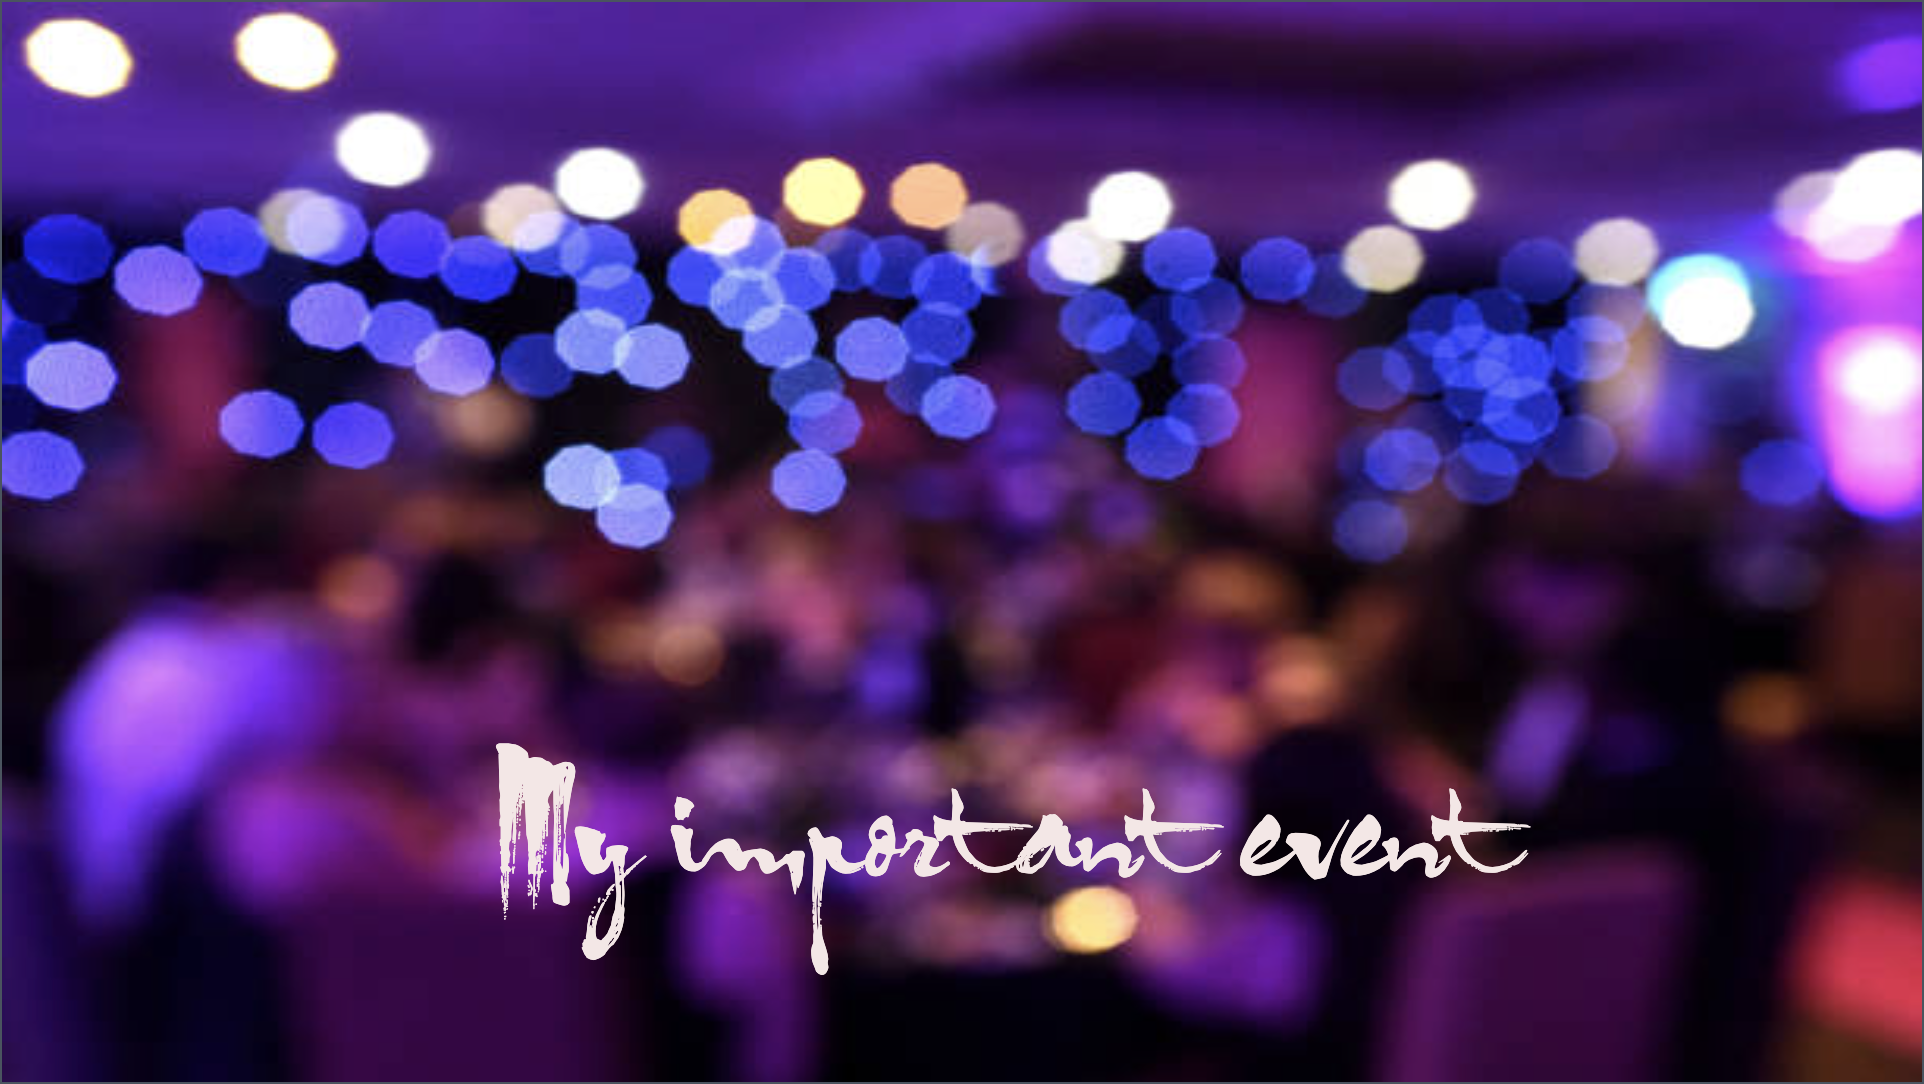
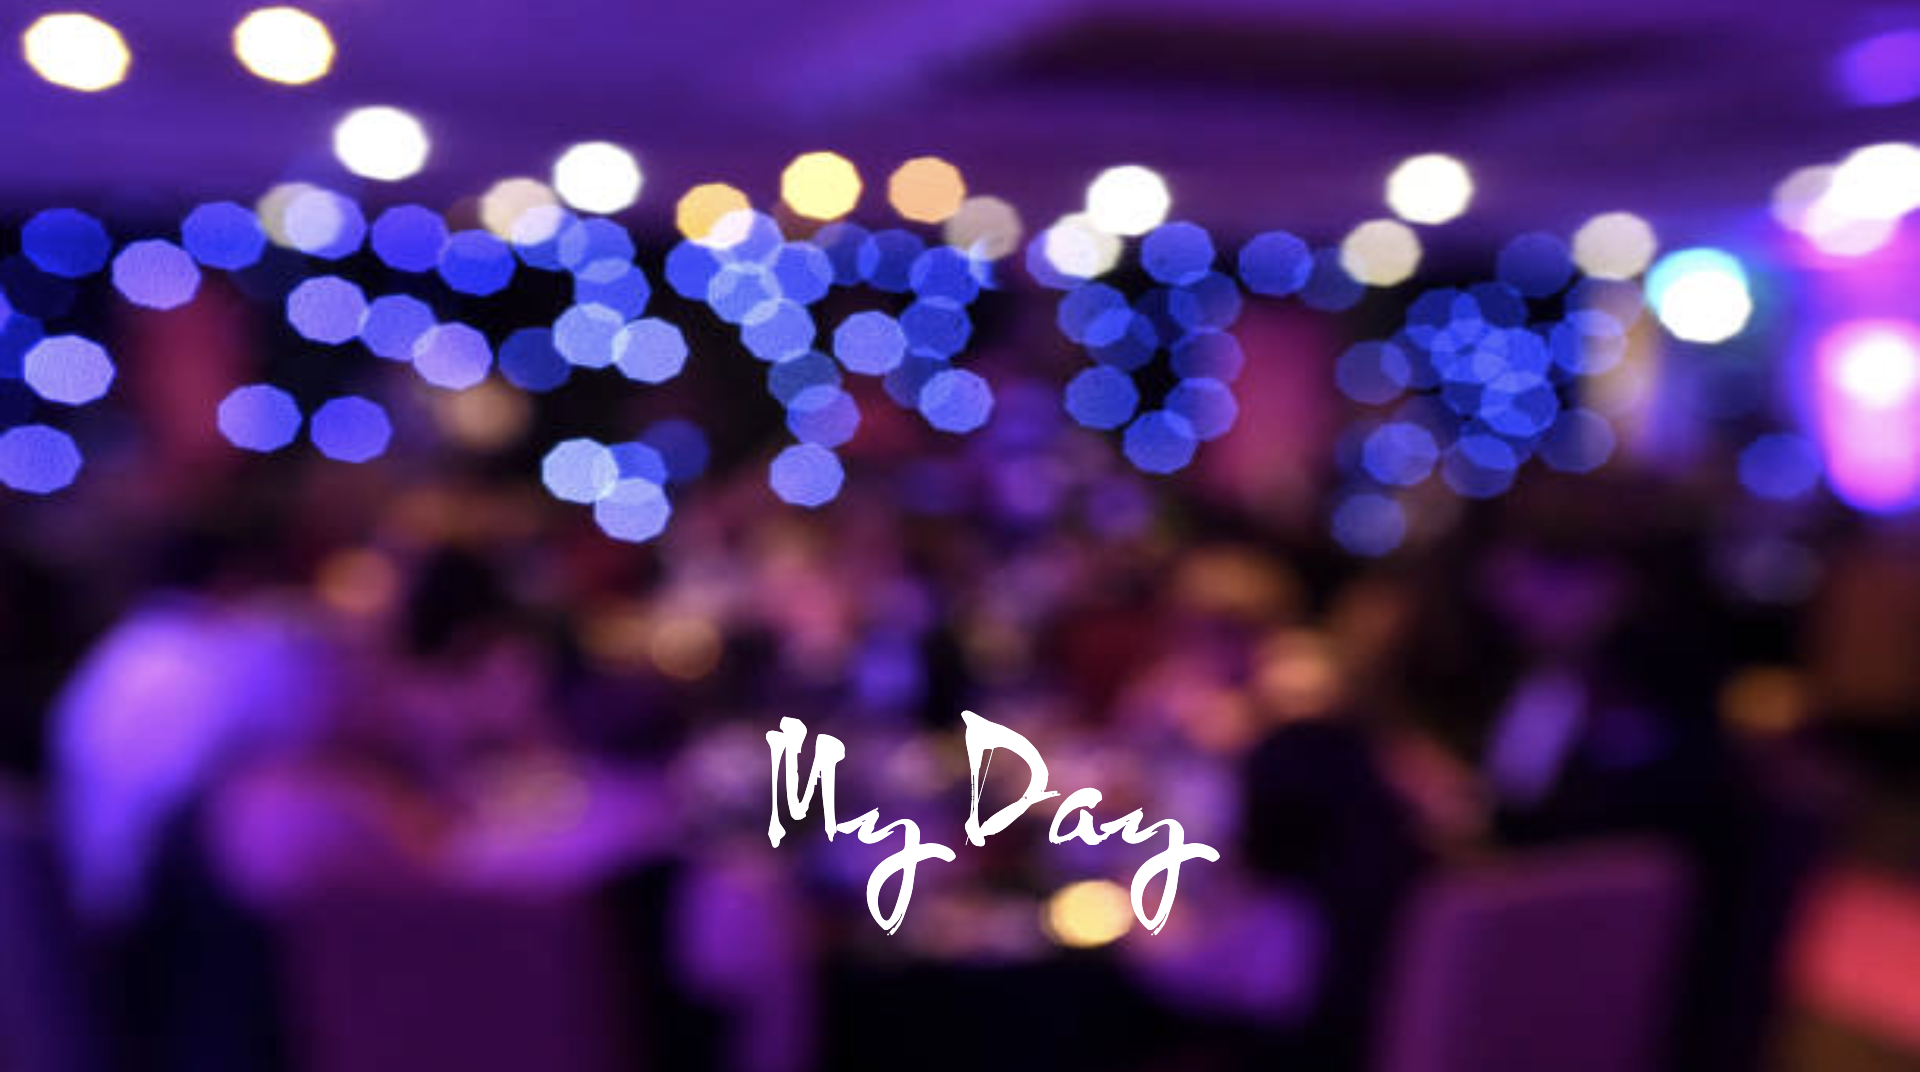
change background img

diff --git a/src/components/home/hero.tsx b/src/components/home/hero.tsx
@@ -157,7 +157,7 @@ const HomeHero: FC = () => {
               <Image
                 src="/images/hero.png"
                 width={775}
-                height={787}
+                height={900}
                 alt="Hero img"
               />
             </Box>
@@ -228,7 +228,7 @@ const HomeHero: FC = () => {
                         </Typography>
                       </Box>
                       <Box>
-                        <Typography variant="h4">10:30am-1pm</Typography>
+                        <Typography variant="h4">11am-1pm</Typography>
                       </Box>
                       <Box>
                         <Typography variant="h4">4:30pm-6pm</Typography>

diff --git a/src/components/about.tsx b/src/components/about.tsx
@@ -18,7 +18,7 @@ const images = [
     imgPath: '/images/bg1.png',
   },
   {
-    label: 'My Important Event',
+    label: 'My Day',
     imgPath: '/images/bg2.png',
   },
   {
